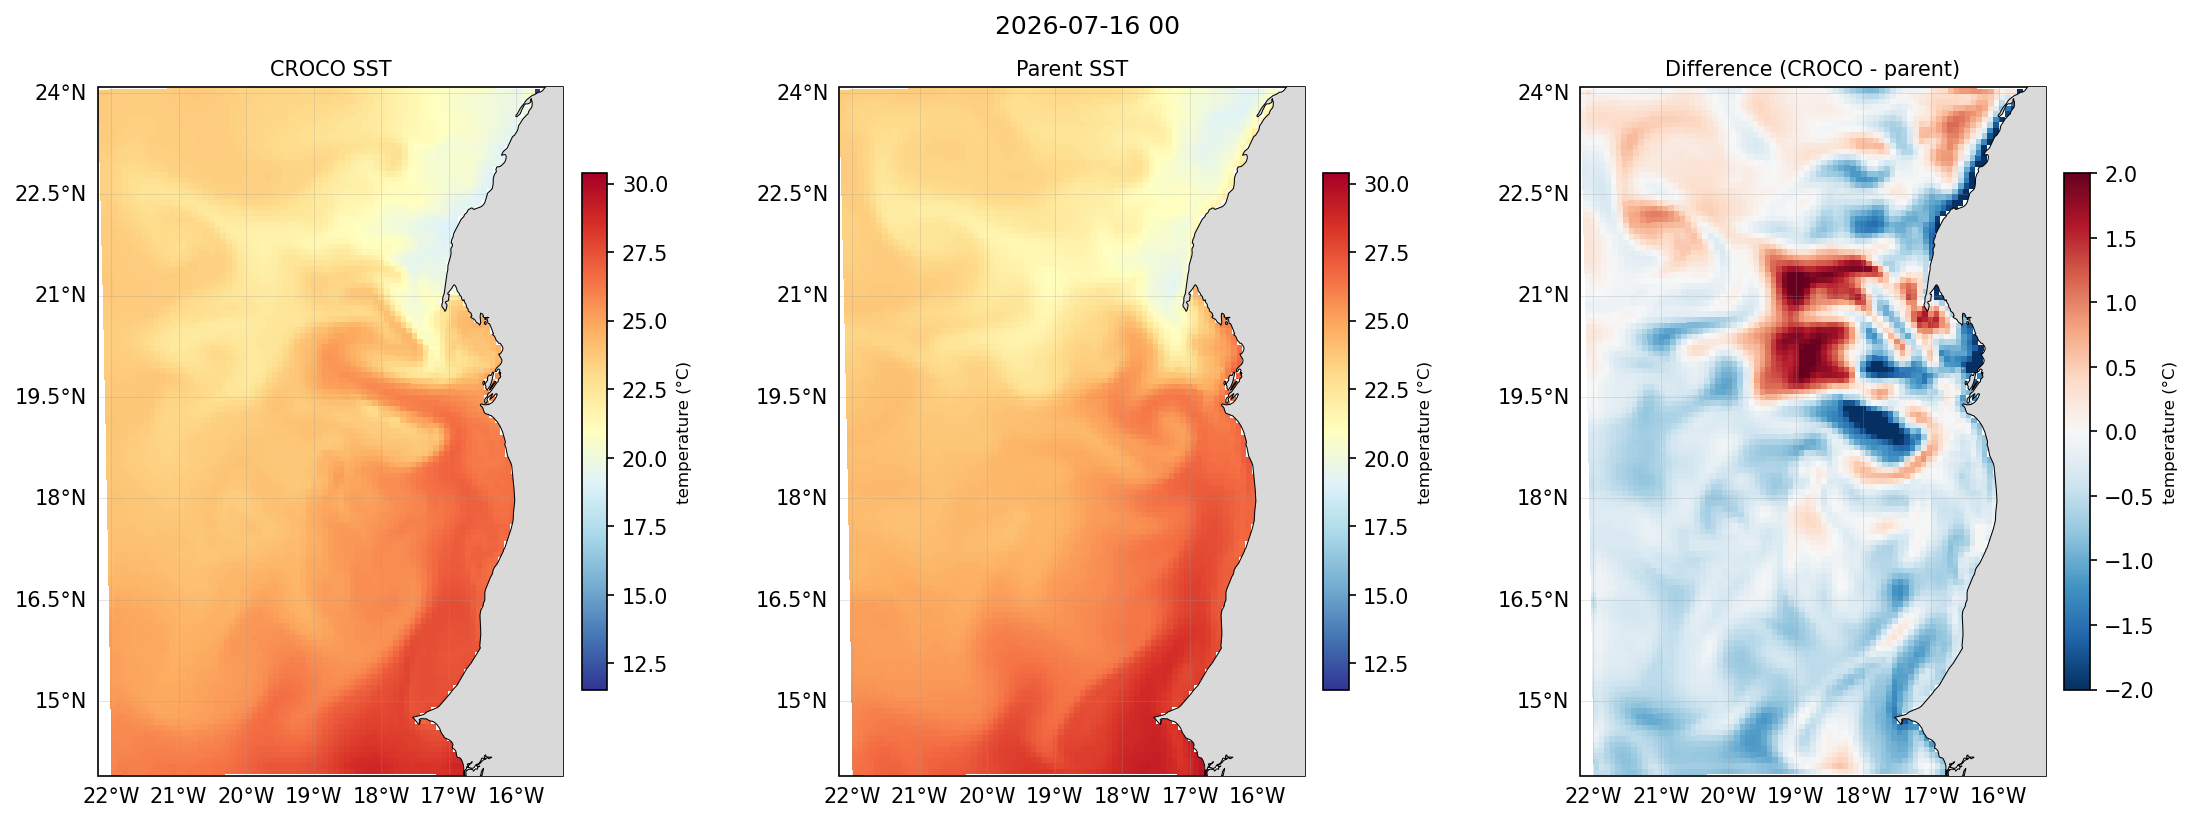
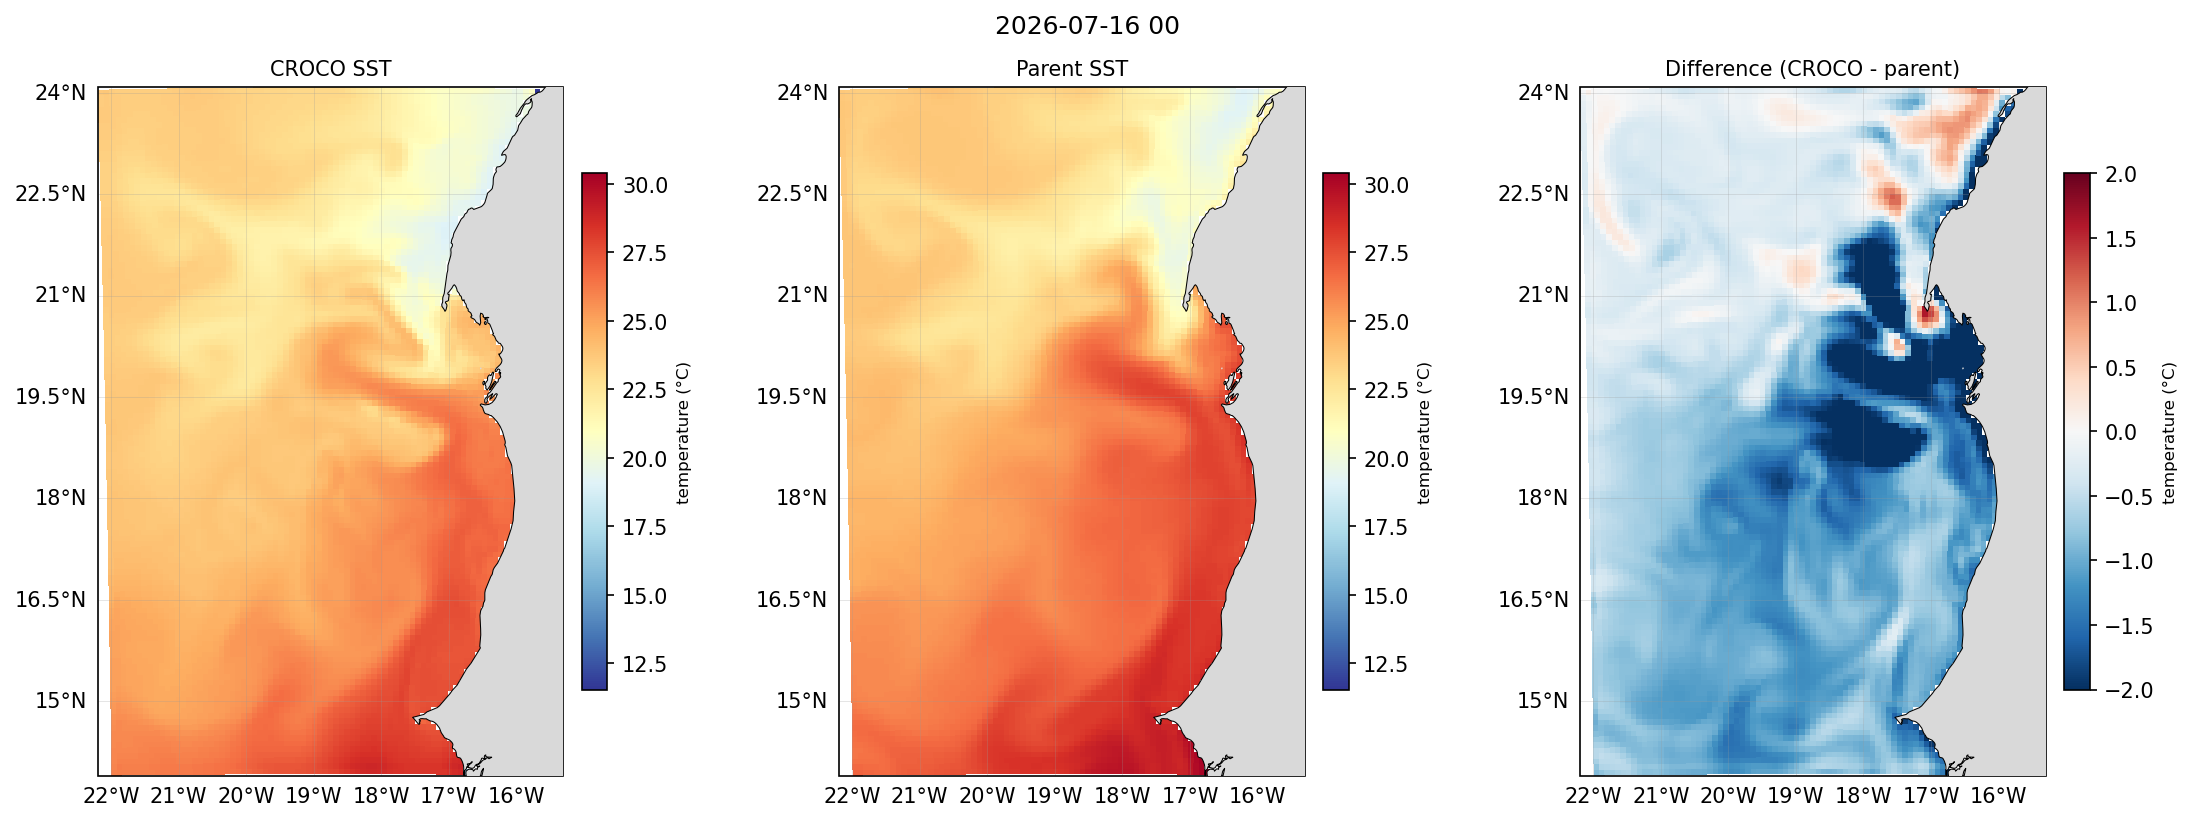
docs: add date-matched parent comparison to Phase 2 summary

diff --git a/docs/phase2/now.md b/docs/phase2/now.md
@@ -27,33 +27,45 @@ import sftools.validation as val
 
 HIS  = "forecast/scratch/Canary_12/CROCO_FILES/croco_his.nc"
 MERC = "forecast/scratch/Canary_12/downloaded_data/MERCATOR/MERCATOR_20260711_00.nc"
+DATE = "2026-07-16"          # the last day of the run
 
-val.compare_sst(HIS, MERC, Yorig=2000, out="sst_vs_mercator.png")
-val.compare_ssh(HIS, MERC, Yorig=2000, out="ssh_vs_mercator.png")
-val.compare_currents(HIS, MERC, Yorig=2000, out="cur_vs_mercator.png")
+val.compare_sst(HIS, MERC, date=DATE, Yorig=2000, out="sst_vs_mercator.png")
+val.compare_ssh(HIS, MERC, date=DATE, Yorig=2000, out="ssh_vs_mercator.png")
+val.compare_currents(HIS, MERC, date=DATE, Yorig=2000, out="cur_vs_mercator.png")
 ```
 
-Replace the date in the Mercator filename with your own download's. Each call draws
-three panels — CROCO, the parent regridded onto the CROCO grid, and the difference —
-and prints the domain statistics:
+!!! warning
+    **Always pass `date=`.** Without it the comparison takes CROCO's *last* record and the parent's *first* — eight days apart in this run — and the statistics are meaningless.
+
+Each call draws three panels — CROCO, the parent regridded onto the CROCO grid, and
+the difference — and prints the domain statistics:
 
 ```
-SST  CROCO vs parent:
-  [SST]  n=8390  bias=-0.213  RMSE=0.660  cRMSE=0.624  corr=0.955
+SST          bias=-0.830  RMSE=1.094  cRMSE=0.713  corr=0.949
+SSH anomaly  bias=-0.000  RMSE=0.019  cRMSE=0.019  corr=0.954
+Speed        bias=+0.016  RMSE=0.114  cRMSE=0.113  corr=0.519
 ```
 
 ![SST comparison](../img/canary_12_sst_vs_mercator.png)
+![SSH comparison](../img/canary_12_ssh_vs_mercator.png)
+![Speed comparison](../img/canary_12_cur_vs_mercator.png)
 
-`bias` is the mean offset, `RMSE` the total error, `cRMSE` the error after removing
-the bias, and `corr` the spatial correlation. At the start of a run the two fields
-are near-identical — the model *is* the interpolated parent, so agreement proves the
-interpolation and the vertical grid are right, not that the model has skill.
-Differences develop as the run proceeds and the finer grid resolves structure the
-parent cannot.
+`bias` is the mean offset, `RMSE` the total error, `cRMSE` the error with the bias
+removed, and `corr` the spatial correlation. Read together, the three lines say
+something useful about a seven-day free run:
 
-Phase 5 covers these tools in full, including `margin_deg` to trim the sponge band
-before computing statistics, and validation against independent observations rather
-than the parent product.
+- **SSH agrees closely.** The large-scale dynamics track the parent.
+- **SST carries a −0.83 °C offset**, and most of the error is that offset: `cRMSE`
+  is 0.71 against an RMSE of 1.09. The pattern is largely intact; the field is
+  simply cooler. A free run develops its own surface balance, where the parent is
+  continually pulled back by SST assimilation.
+- **Speed correlates weakly (0.52) while the error stays small.** That is the finer
+  grid resolving eddies and filaments the parent cannot — the fields disagree
+  point-by-point precisely because the regional model is adding something.
+
+Whether any of this is *better* than the parent needs independent observations, not
+this comparison. Phase 5 covers that, along with `margin_deg` to trim the sponge band
+before computing statistics.
 
 **Next:** turning the raw NetCDF into plots, sections and comparisons is
 **post-processing**, covered in Phase 5.
